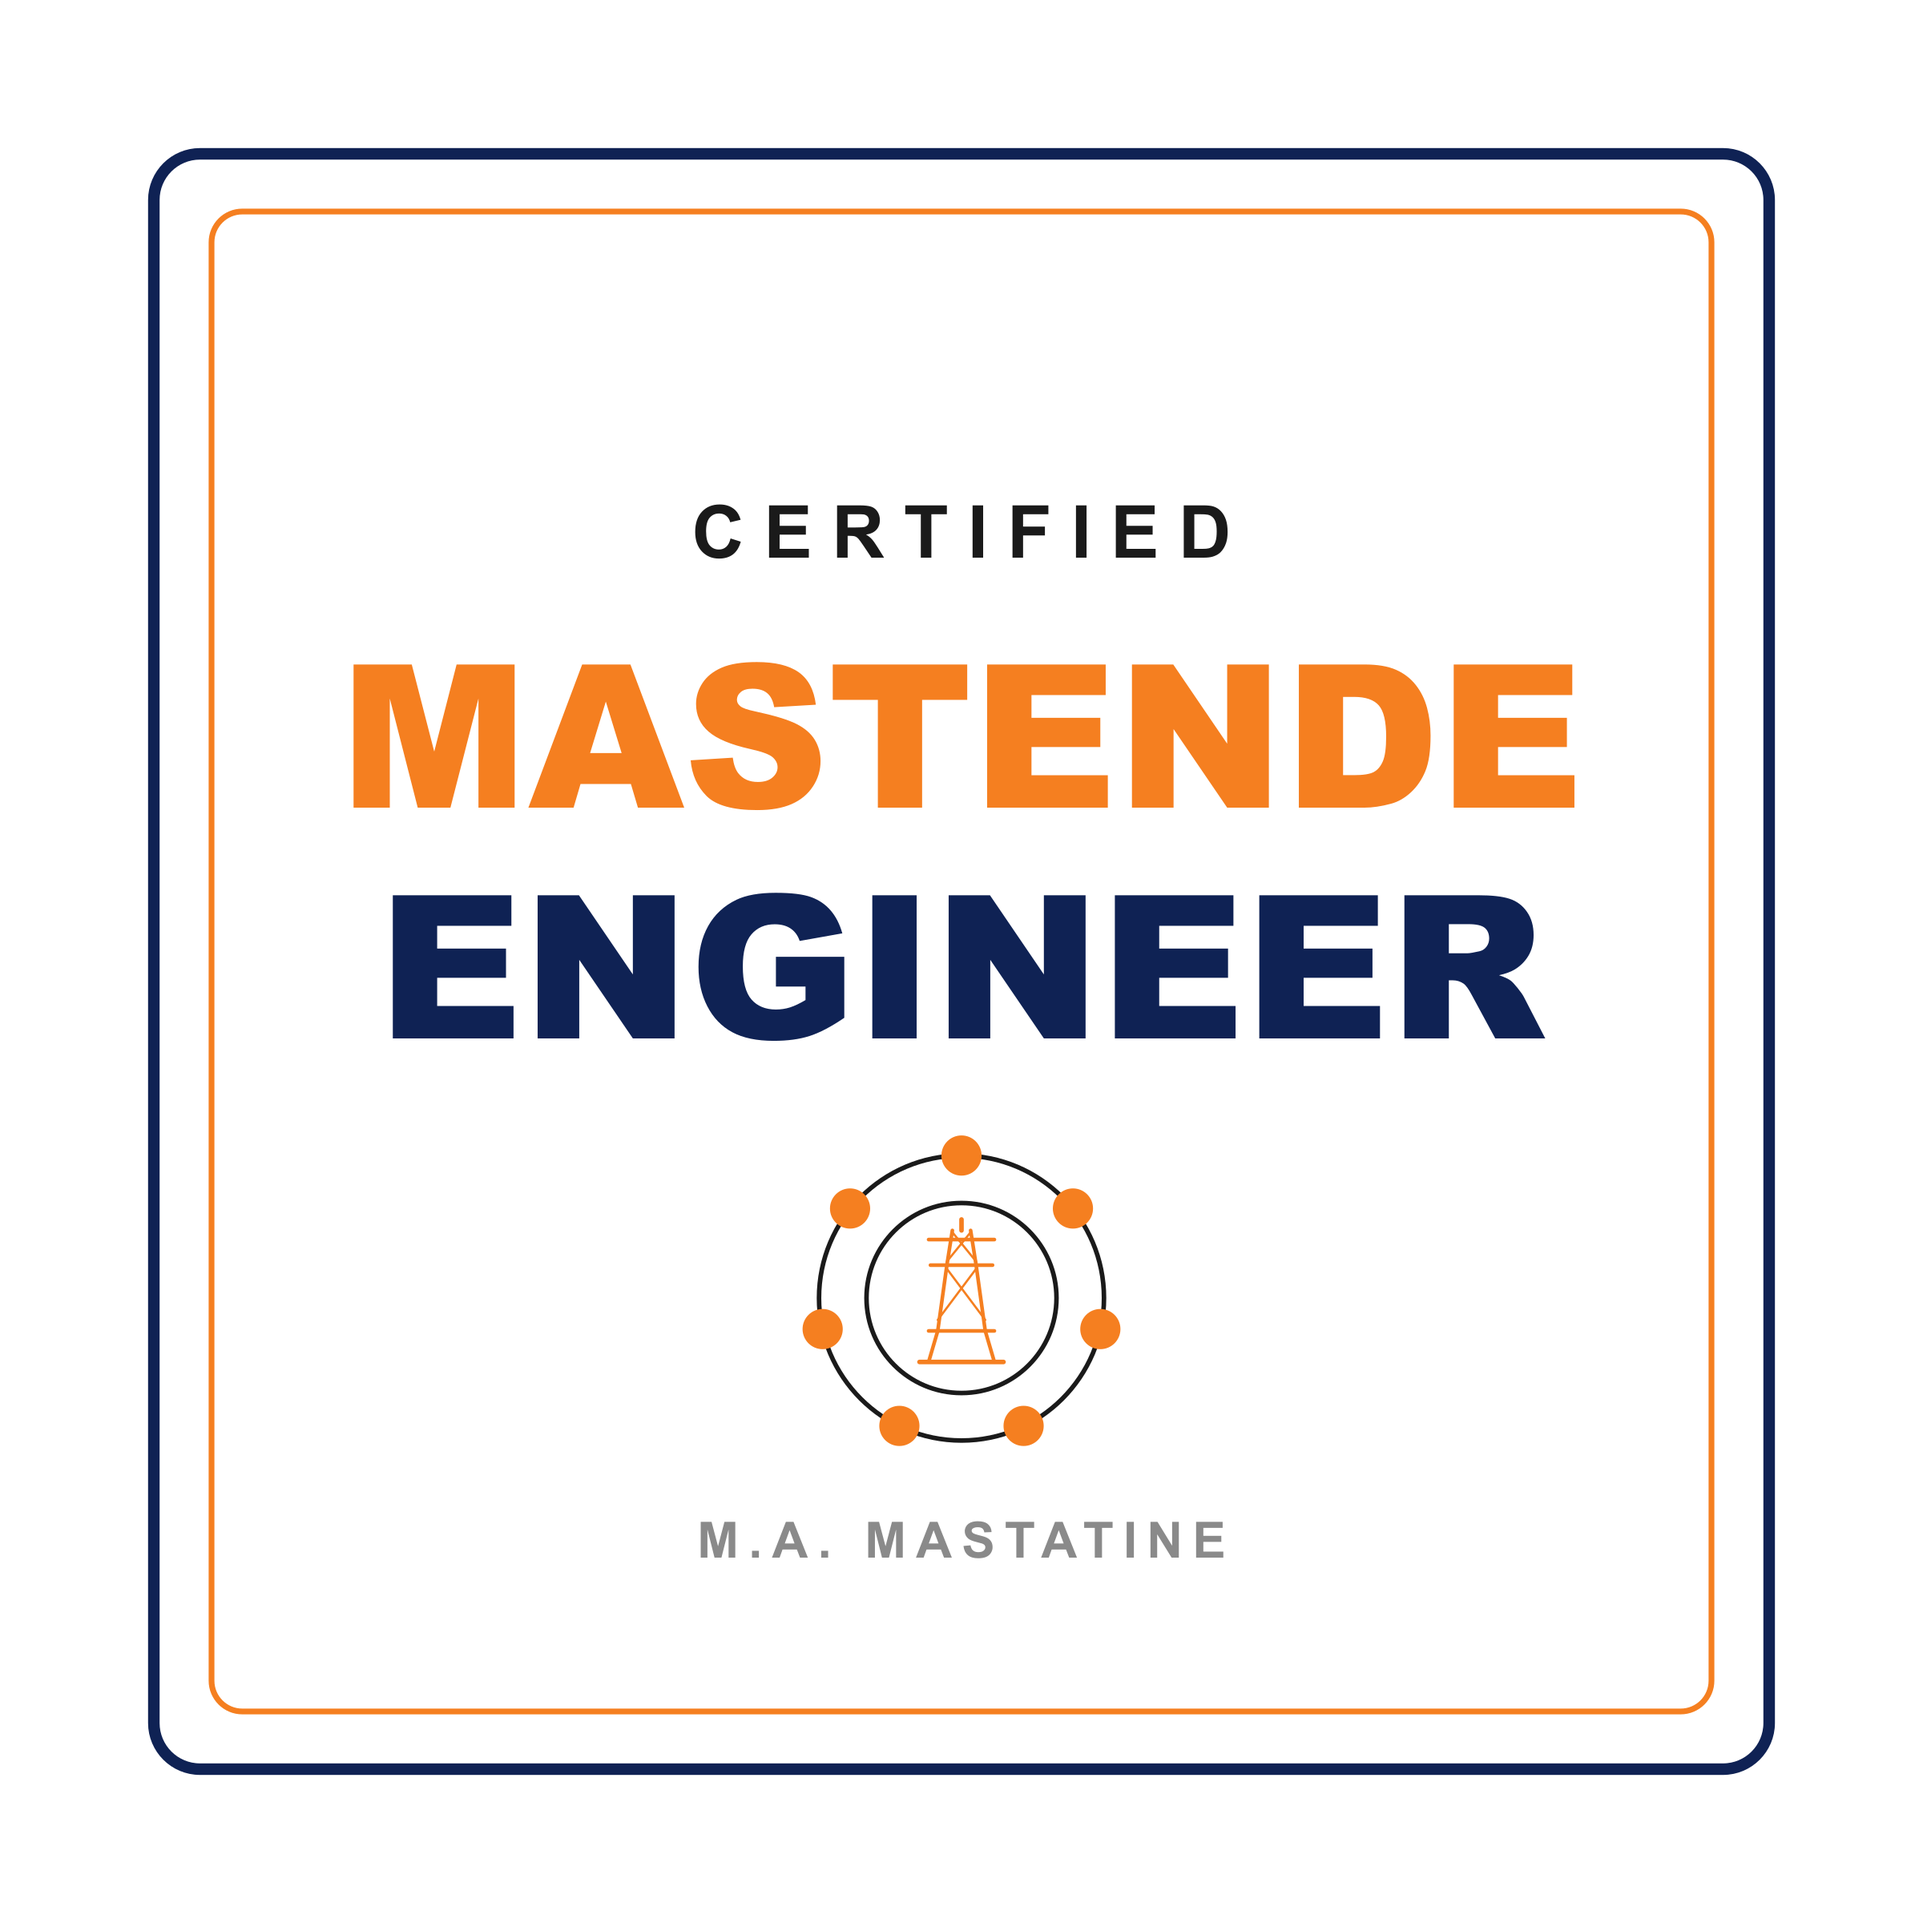
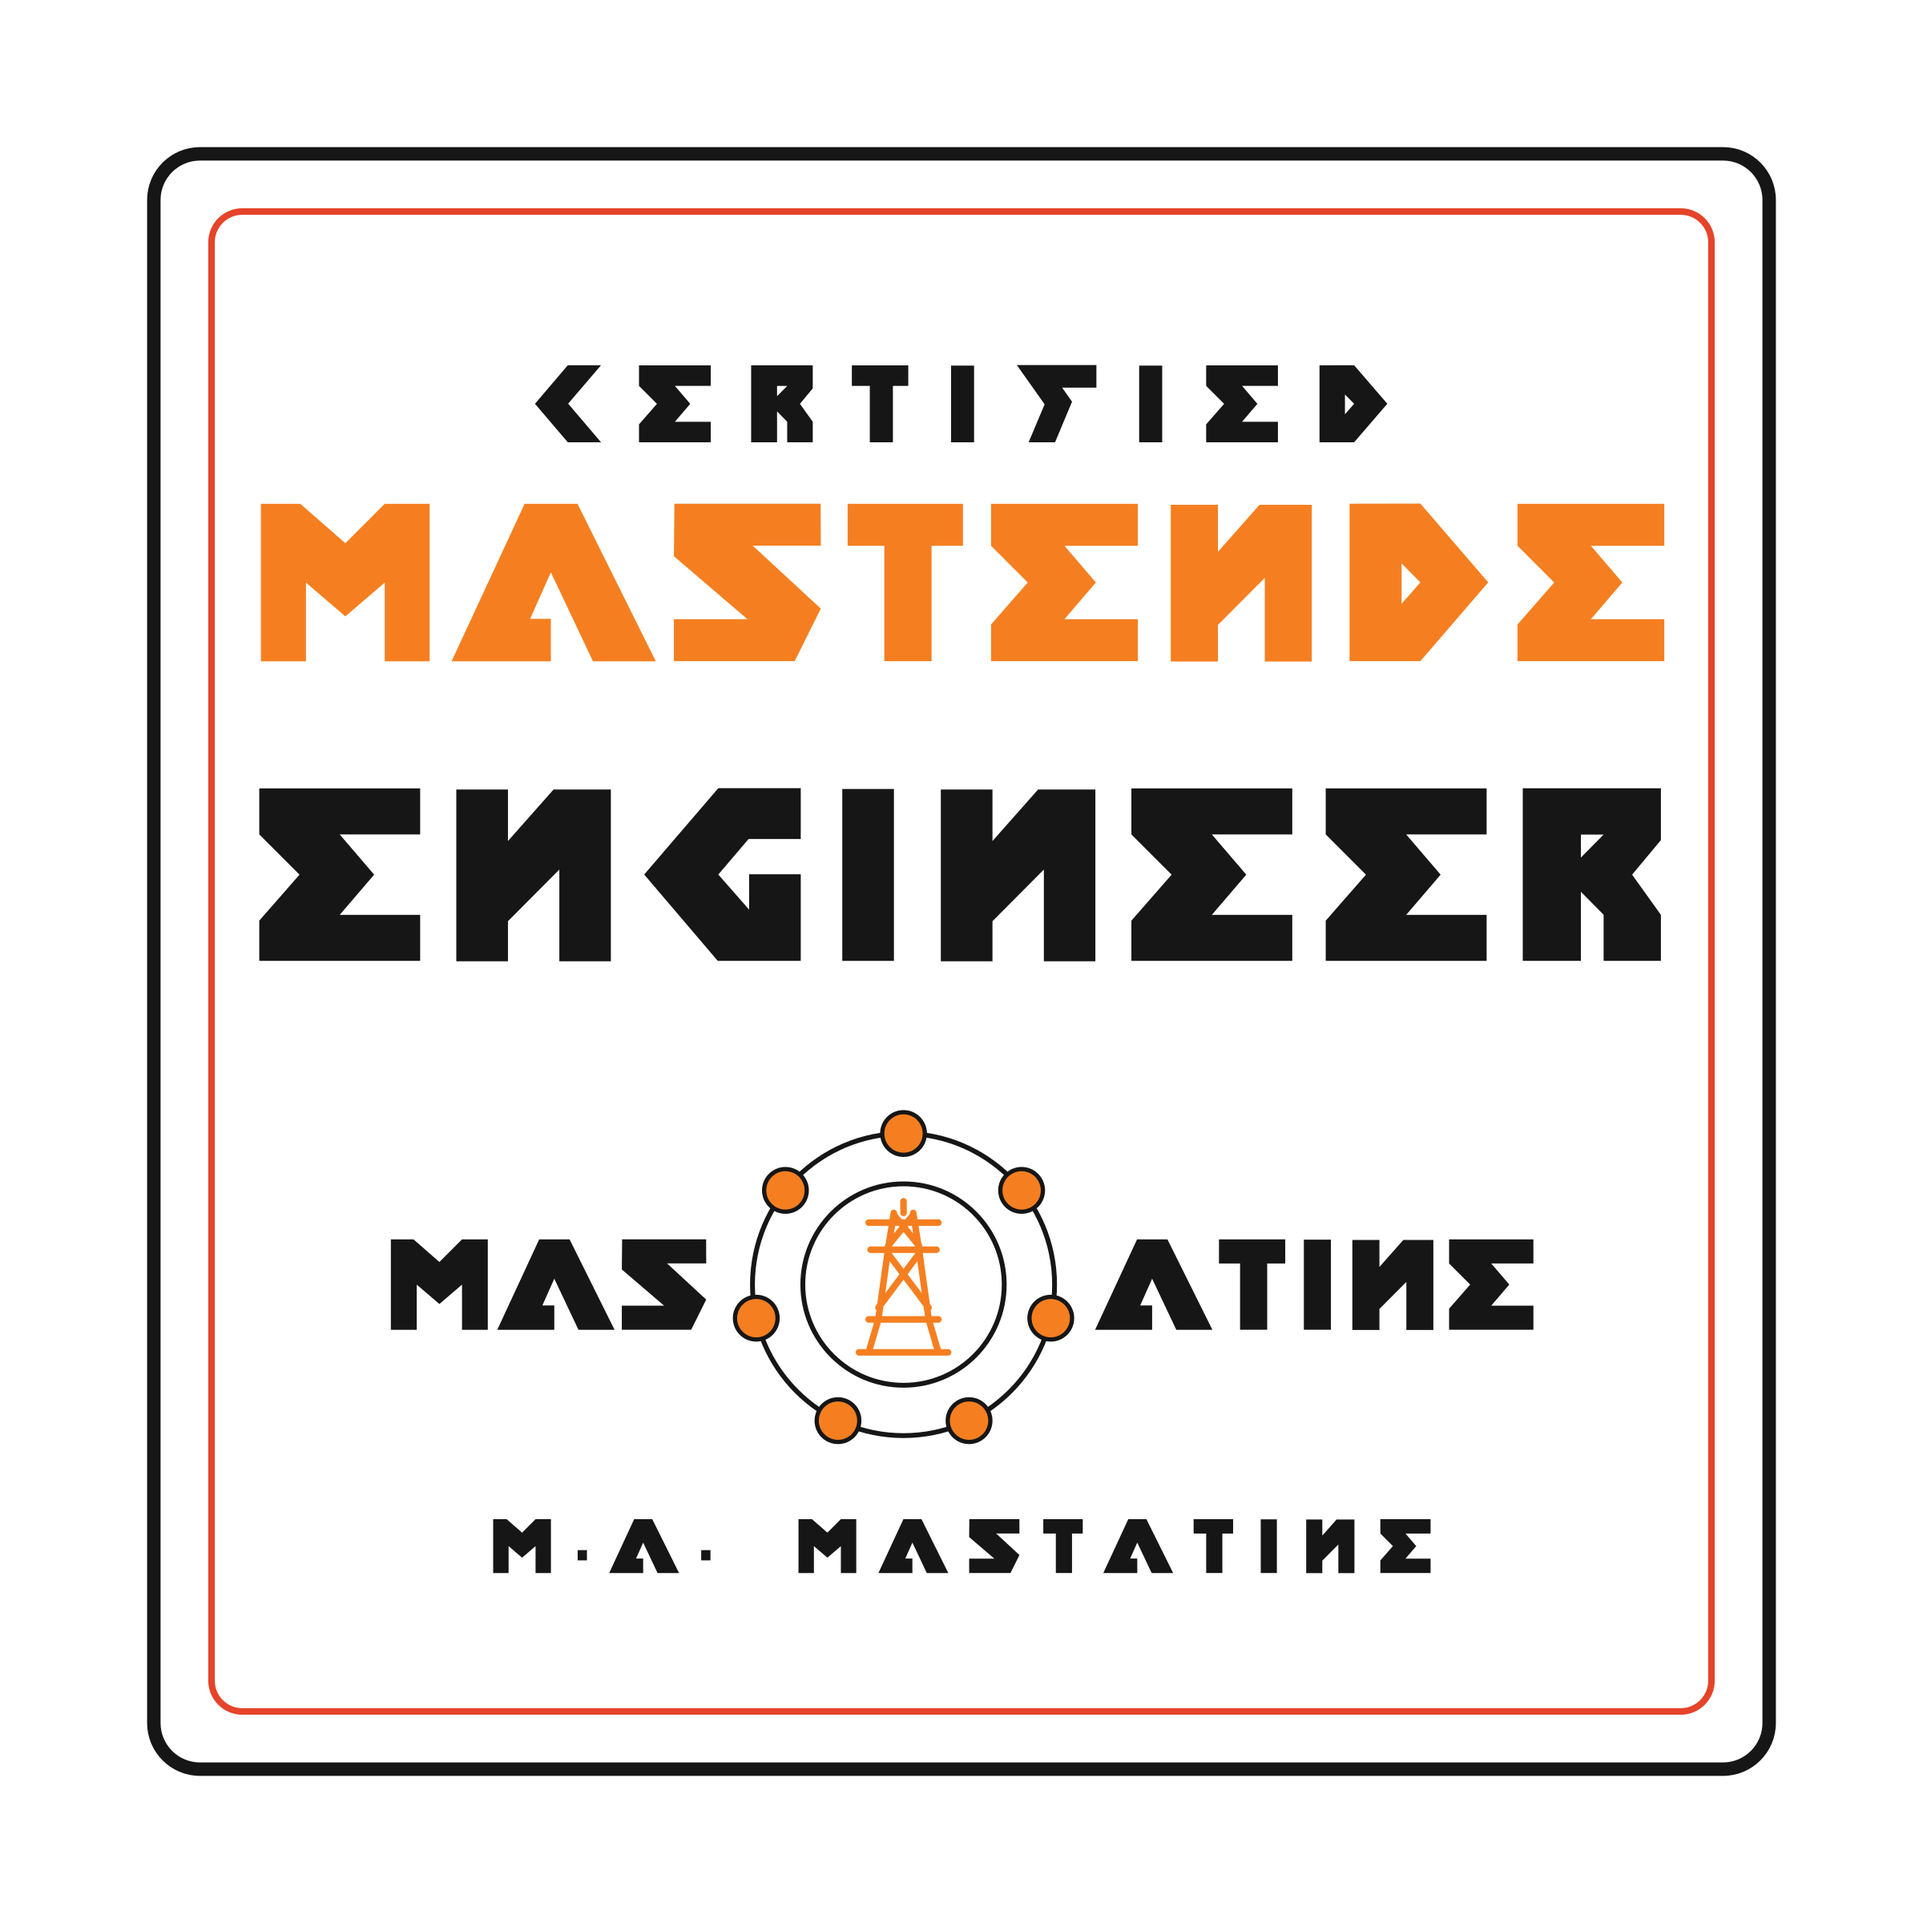
feat: apply the new design language to merch and credit the Astatine typeface
- Rebuild the merch lockups and quote designs in the new language (Astatine lettering as
  outlines, ink / orange / cream / coral, MAS + logo + ATINE lockup). The navy footer band
  becomes footer-band-ink and a white lockup for dark garments is added. PNGs re-exported.
- Add brand/GUIDE.md: name, palette, logo and lockup rules, motifs, print specs, parked ideas.
- Credit the typeface openly: About page disclaimer and site footer now say the stickers and
  merch are set in the Astatine typeface, made for S.A. Astatine and used with their permission.

Changed region(s): [[0.0625, 0.0625, 0.9375, 0.9375], [0.25, 0.7812, 0.75, 0.8438]]

diff --git a/src/app/(pages)/about/page.tsx b/src/app/(pages)/about/page.tsx
@@ -37,7 +37,10 @@ export default function AboutPage() {
               the University of Twente, or to the University of Twente itself.
             </li>
             <li>We are not a study association. Nothing here grants study credits, discounts or any academic standing.</li>
-            <li>Our name is a pun. Our logo, text and layout are our own and are not taken from anyone else.</li>
+            <li>
+              Our name is a pun. Our logo and layout are our own and are not taken from anyone else. The one thing we borrow is the
+              lettering: our stickers and merch are set in the Astatine typeface, made for S.A. Astatine, which we use with their permission.
+            </li>
             <li>We do not use, copy or display the real association’s data, calendar, logo or content.</li>
             <li>Statements on this site are satire. Please do not mistake them for statements of fact, or of anyone else.</li>
           </ul>

diff --git a/src/classic/Colophon.tsx b/src/classic/Colophon.tsx
@@ -40,6 +40,9 @@ export default function Colophon() {
             <p style={{ fontSize: "0.95em", color: "var(--text-mid)", marginTop: "0.4em" }}>
               Not affiliated with S.A. Astatine or the University of Twente.
             </p>
+            <p style={{ fontSize: "0.85em", color: "var(--text-mid)", marginTop: "0.4em" }}>
+              Stickers and merch are set in the Astatine typeface, made for S.A. Astatine and used with their permission.
+            </p>
           </div>
         </section>
 

diff --git a/brand/GUIDE.md b/brand/GUIDE.md
@@ -1,0 +1,73 @@
+# M.A. Mastatine design language
+
+Short reference so every sticker, shirt and page looks like it comes from the same place.
+
+## Name
+
+- **M.A. Mastatine** (short form: *Mastatine*). **M.A.** stands for **Mast Association**.
+- Write "Mast Association" in full where there is room (footers, About, legal pages). Never "S.A.": that is the real
+  S.A. Astatine, which this project parodies.
+
+## Colour
+
+| Role | Hex | Notes |
+|---|---|---|
+| Orange (brand) | `#f57f20` | electrons, tower, "M.A.", backgrounds |
+| Ink | `#161616` | text, rings, masts, the name band |
+| Cream | `#fff4e2` | the sun, cards, light surfaces |
+| Coral red | `#e5432a` | horizon tint, thin accent lines, ribbons |
+| Peach | `#ffb15a` | top of the sky gradient |
+
+Retired: navy `#0f2254` (old merch and the current website theme; the site has not been restyled yet).
+Sky gradient on the primary sticker: peach, then orange, then coral at the horizon.
+
+## Logo
+
+- The mark is an atom: two rings, seven electrons (astatine has seven valence electrons) and a lattice tower.
+- On a light sun or light surface give the electrons an ink outline; never put white electrons on cream.
+- Keep hairlines at or above about 0.27 mm in print (the build thickens the thin tower braces automatically).
+- Files: `brand/logo/` (colour, mono, white).
+
+## Lettering
+
+- Display lettering is the **Astatine** typeface, always **converted to outlines** in artwork, so no font file is needed.
+- The typeface was made for S.A. Astatine and is used with their permission. Say so: the credit is on the About page
+  and in the site footer. Keep it there.
+- The TTF is not stored in this repository (its licence is for promo use, not redistribution). Keep it in the shared
+  drive and regenerate outlines from there.
+- Body text on the website stays Lato.
+
+## The lockup
+
+- **MAS + logo + ATINE**: the mark stands in for the T, the way the real astatine sticker puts "At" in the middle.
+- The mark is a ring and a tower, not a T, so people may read "MAS-ATINE". Whenever the lockup is the only wordmark,
+  spell the name out nearby ("M.A. MASTATINE" in the black band, or under the lockup).
+- Keep the logo centred on the sticker. Leave a small gap between the letters and the electrons.
+
+## Motifs
+
+- **Skyline**: pylons, guyed radio masts, a GSM pole and a TV tower in ink, standing on the band.
+- **Sun**: a cream disc behind the logo.
+- **Name band**: black band along the bottom with orange "M.A." and white "MASTATINE".
+- Use at most one extra flourish at a time (rings, wires, stripes, dots).
+
+## Print
+
+- Stickers 85 x 55 mm, square corners, no cut line, 2 mm bleed, keep everything 2 mm inside the trim.
+- Artwork is vector with all text as outlines. Colours are screen RGB: ask the printer for a proof and match orange
+  `#f57f20` and the coral `#e5432a`.
+- Files: `brand/stickers/primary/` (the main sticker), `brand/stickers/extras/` (postcard stamp, name tag,
+  Mast of the Month, pixel world), `designs/` (merch: lockups and quotes).
+
+## Parked ideas (not built)
+
+- Hidden details: the seven electrons as binary 85 (`1010101`), Morse in the mast wires, microtext in a ring.
+- Tilt reveal: spot gloss on matte, or stretched text that reads when tilted; lenticular or holographic foil if budget allows.
+- Glow-in-the-dark sun, thermochromic sun, a message printed on the backing paper.
+
+## Still open
+
+- Restyle the website (navy and Lato to ink, orange, cream, coral) as its own step.
+- Confirm the exact wording of the typeface credit with S.A. Astatine.
+- The About page still says M.A. Mastatine is "not affiliated with, endorsed by or connected to" S.A. Astatine.
+  Decide whether that still reads as true now that the board overlaps.

diff --git a/designs/README.md b/designs/README.md
@@ -1,23 +1,22 @@
 # Merch designs
 
-Source files for print-on-demand products (Printify/Spreadshop). Brand colors
-(`#f57f20` orange, `#0f2254` navy, `#1a1a1a` ink), Lato typeface. Each design has both
-an `.svg` (vector source) and a `.png` (2400×2400, pre-rasterized, ready to upload).
+Source files for print-on-demand products (Printify/Spreadshop), in the M.A. Mastatine design language
+(see `../brand/GUIDE.md`). Each design has an `.svg` (vector source) and a `.png` (2400 x 2400, pre-rasterized, ready to
+upload). Lettering is the Astatine typeface converted to outlines, so the SVGs need no fonts. Colours: orange
+`#f57f20`, ink `#161616`, cream `#fff4e2`, coral `#e5432a`.
 
-- `logo/` — the brand mark, in three forms:
-  - `accent-block-orange.svg` / `.png` — reversed white lockup on a solid orange block.
-  - `footer-band-navy.svg` / `.png` — same, on solid navy.
-  - `lockup-transparent.svg` / `.png` — full-color mark, no background block, so it can
-    sit on top of anything (photos, colored merch, the site itself) without a colored
-    box trailing it.
-- `quotes/` — four quote/joke designs, transparent background so the garment color
-  shows through.
+- `logo/` the brand lockup (MAS + logo + ATINE), in four forms:
+  - `lockup-transparent.svg` / `.png` ink and orange, no background: for light garments and anything light.
+  - `lockup-white-transparent.svg` / `.png` white and orange, no background: for dark garments.
+  - `accent-block-orange.svg` / `.png` the lockup on a solid orange block, with a cream sun behind the logo.
+  - `footer-band-ink.svg` / `.png` the lockup on a solid ink block (replaces the old navy band).
+- `quotes/` four quote and joke designs on a transparent background so the garment colour shows through:
+  Certified Mastende Engineer, Eat. Sleep. Masten. Repeat., I (heart) Masten, World's Okayest Mastatine Member.
 
 ## Regenerating PNGs
 
-If an `.svg` changes, re-export its `.png` with any SVG rasterizer at 300 DPI (aim for
-~2400px+ on a side). This repo has `sharp` available as a dependency, so from the
-project root:
+If an `.svg` changes, re-export its `.png` with any SVG rasterizer at 300 DPI (about 2400 px on a side). This repo has
+`sharp` as a dependency, so from the project root:
 
 ```js
 require("sharp")("designs/quotes/example.svg", { density: 300 })

diff --git a/brand/README.md b/brand/README.md
@@ -4,6 +4,7 @@ All stickers are 85 x 55 mm, square corners, text converted to outlines (no font
 `*-print.svg` has 2 mm bleed on every side (89 x 59 mm file, trim at 85 x 55 mm). `*-preview.*` is the finished
 85 x 55 mm shape. Brand colours: orange `#f57f20`, ink `#161616`. Lettering is set in the Astatine display font.
 
+- `GUIDE.md` the design language: name, colours, typeface credit, lockup rule, motifs, print specs, parked ideas.
 - `logo/` the atom-and-tower mark: colour, mono (black) and white versions, SVG with strokes converted to outlines, plus PNG.
 - `stickers/primary/` the main sticker (skyline with a red-tinted horizon, big centred lockup, black name band).
 - `stickers/extras/` alternates: postcard/stamp, name tag, Mast of the Month, pixel world.
